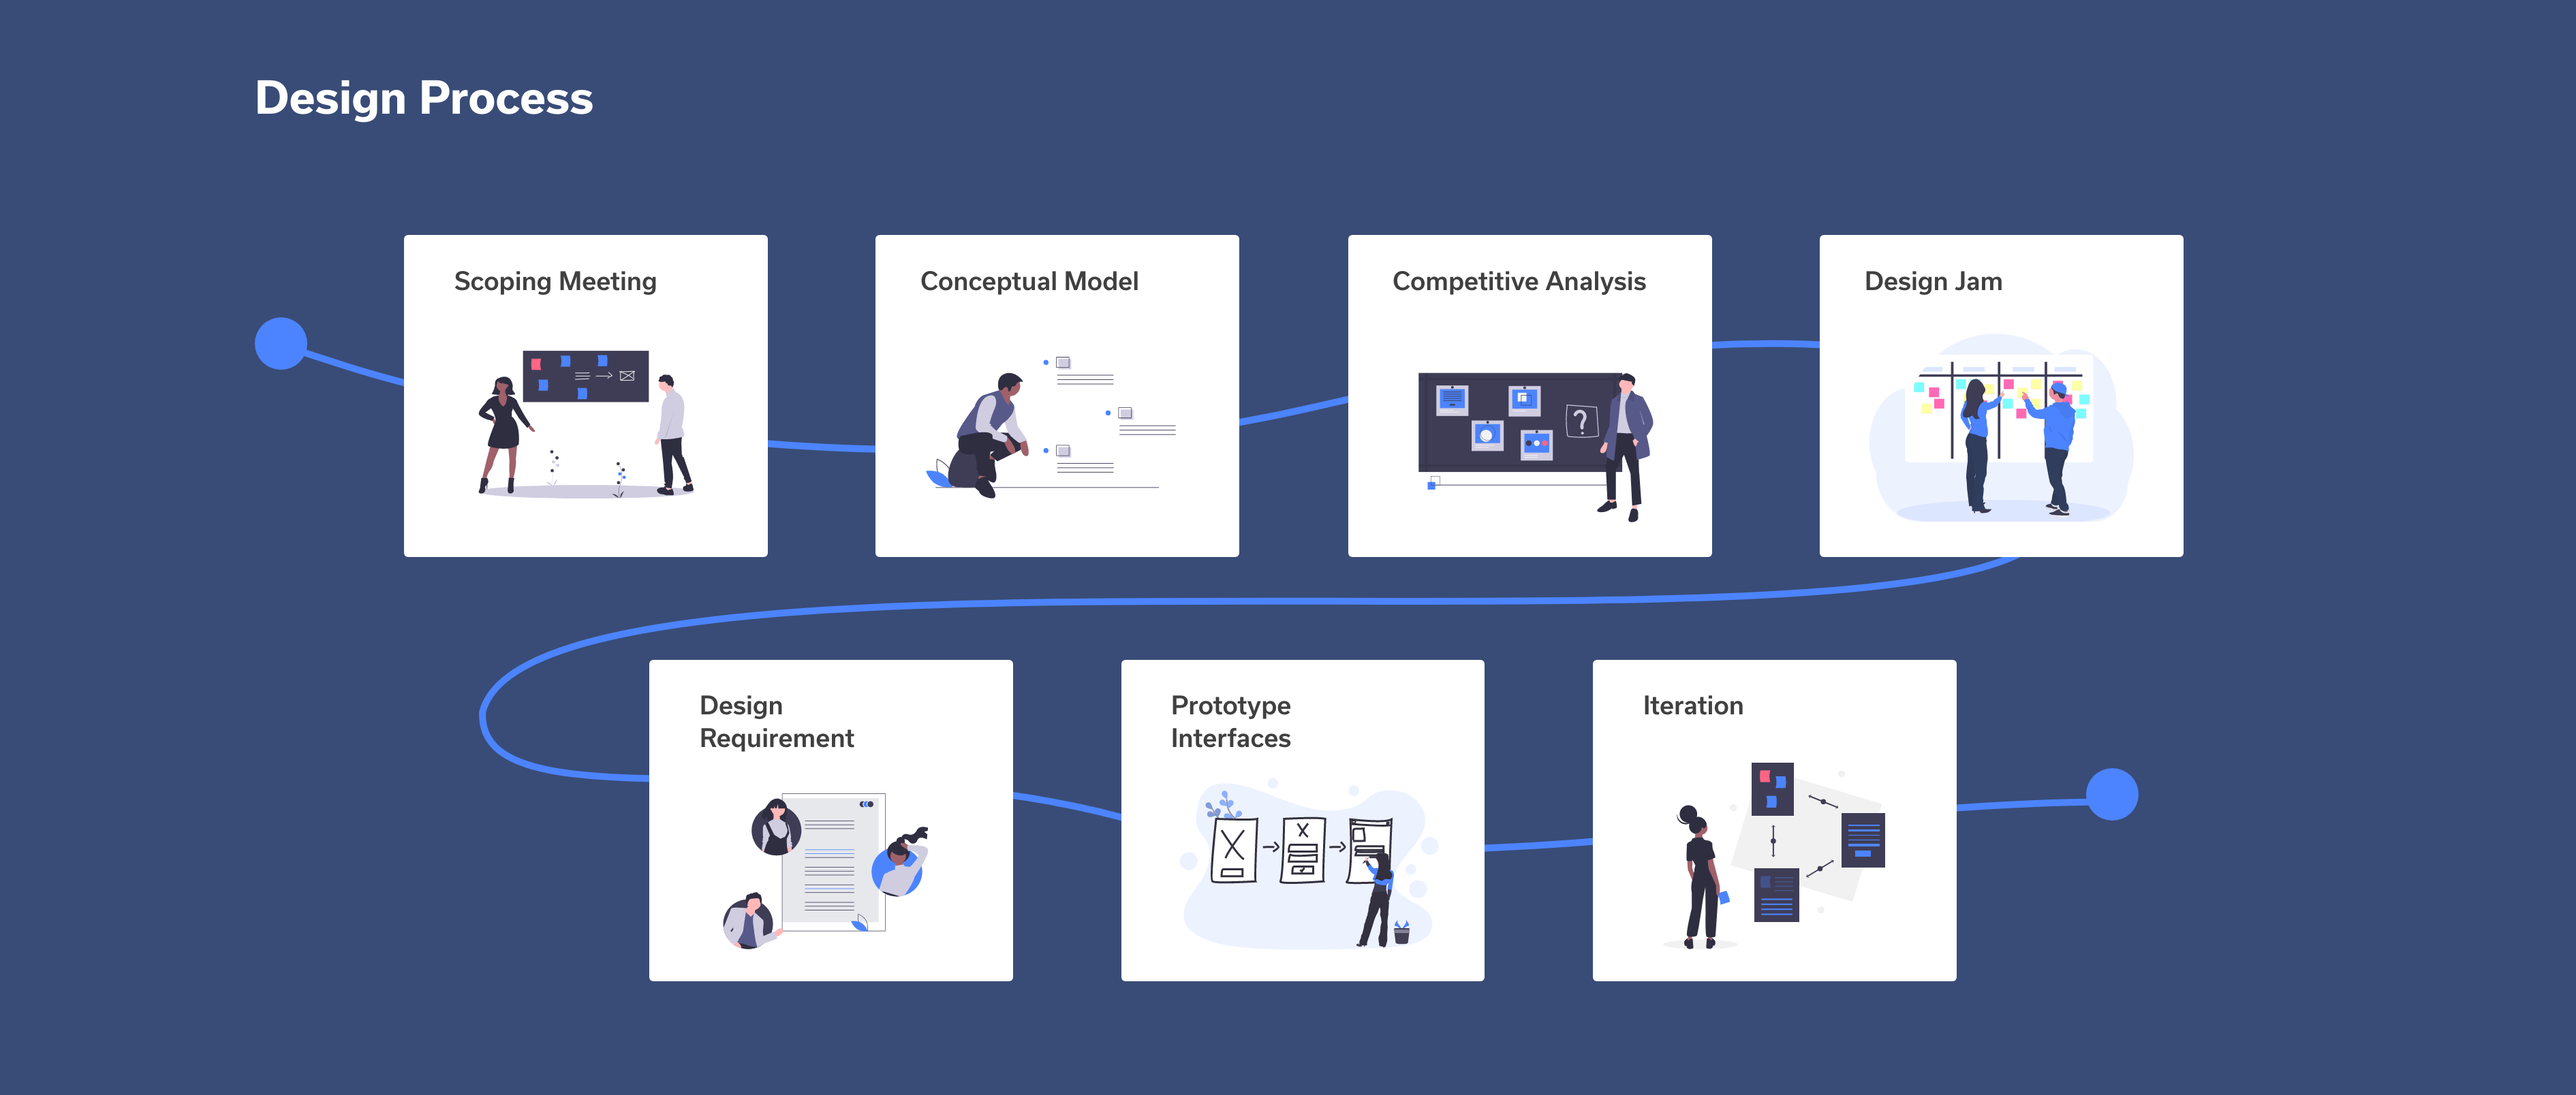
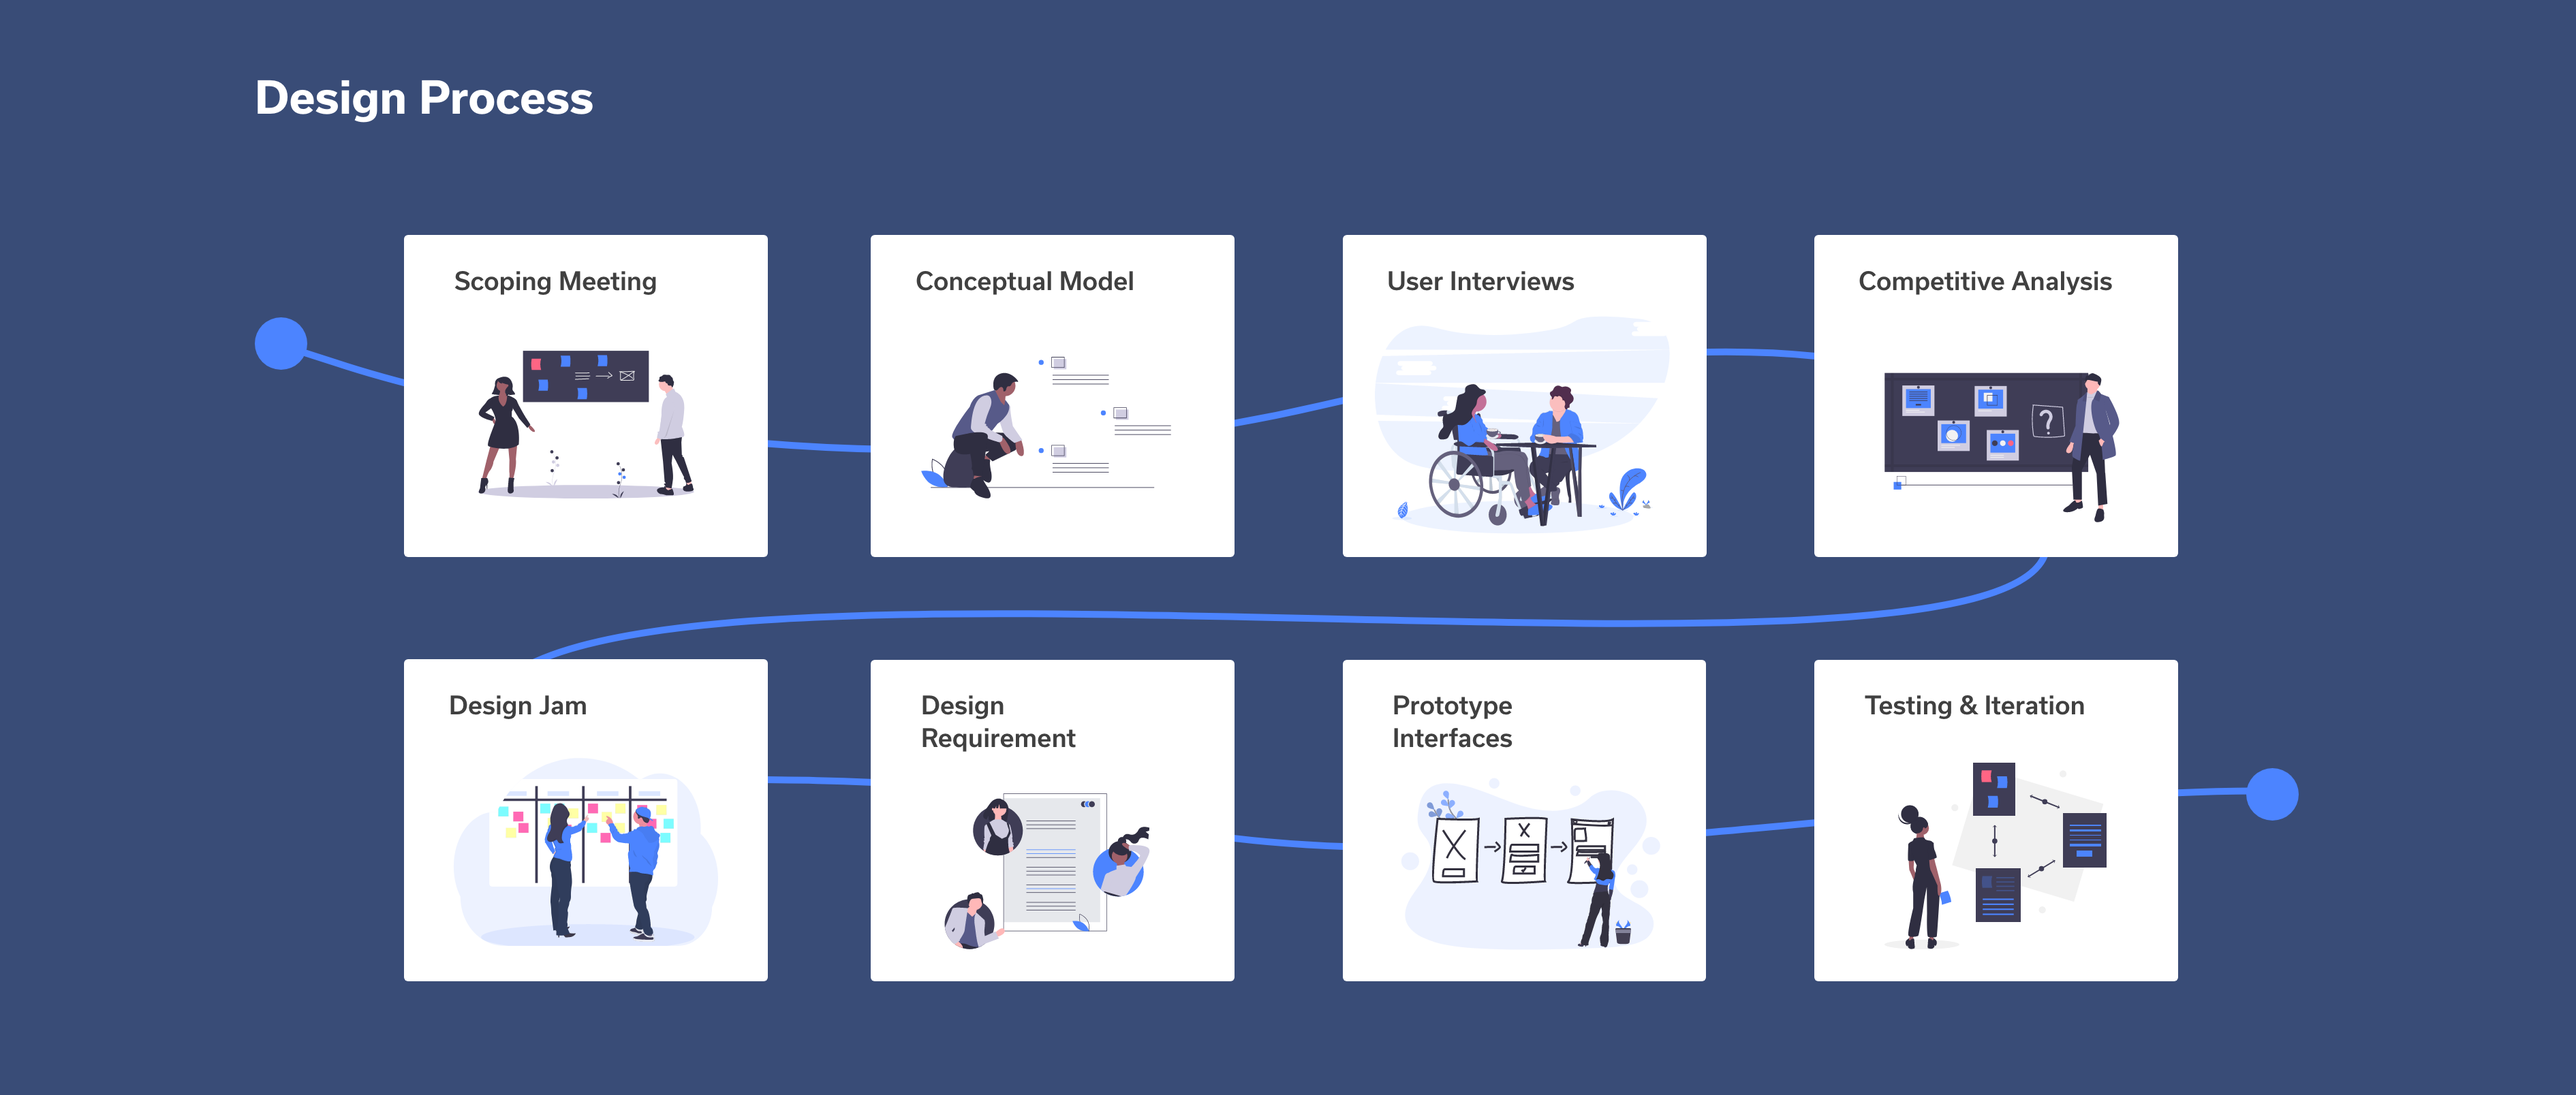
Add files via upload

diff --git a/atlas_s.html b/atlas_s.html
@@ -200,8 +200,9 @@
 							
                     	<div class="col-sm-12 col-md-5 col-lg-5">
                         	<h6>1. Responsive schedule building</h6>
-                        	<!-- <p>The dashboard displays rich data that indicates the impact of the mission-driven organization, providing quantification of impact while obtaining fundings</p>
-                    	 --></div>
+							<p>When building their schedules, users have the Select Course panel on the left which serves like a “shopping cart”. Users can toggle to turn courses on and off and switch different sections. </p>
+							<p>The schedule will update based on the Select Course panel so that users can try multiple combinations until that find the ideal schedule. </p>
+                    	</div>
                     </div>
                 </div>
             </div>
@@ -228,6 +229,8 @@
 
 						<h5>Conceptual Model</h5>
 						<h3>Understanding user's mental model</h3>
+						<p>Schedule Builder is a familiar concept to our target audiences. However, academic schedule building is a complex process and people have different ways of doing it. </p>
+						<p>In order to understand how the target audiences think about a schedule builder, I facilitated a workshop with college students to build up the conceptual model.  I generated a conceptual model based on the models provided by the users.  The conceptual model helps me understand what information is necessary and what features the users expect. </p>
 						<div class="image-padding">
 							<img src="atlas_s/cm_1.png" class="img-responsive">
 						</div>
@@ -236,6 +239,7 @@
 						</div>
 						<h5>Hallway Interview</h5>
 						<h3>Collecting qualitative data</h3>
+						<p>To further understand the pain points of building academic schedules, I conducted some hallway interviews with some target audiences. I asked them about their behaviors when building a schedule, what they don’t like during the process, and what features they expect in the coming schedule builder.  </p>
 						<div class="image-padding">
 							<img src="atlas_s/interview.png" class="img-responsive">
 						</div>
@@ -249,6 +253,8 @@
 						</div> -->
 						<h5>Design Jam</h5>
 						<h3>Participatory design with target audiences</h3>
+						<p>Our team designed and facilitated a design jam of the schedule builder. We invited students from different schools to participate in the design process.  We also invited other team members such as the developers, data scientists, faculties, and the learning experience designers as the judges.</p>
+						<p>We wanted to involve the stakeholders in the design process to help ensure the result meets their needs and is usable. It was also a great activity to identify potential design opportunities. </p>
 						<div class="image-padding" style="padding-top:0;">
 							<img src="atlas_s/designjam.png" class="img-responsive">
 						</div>
